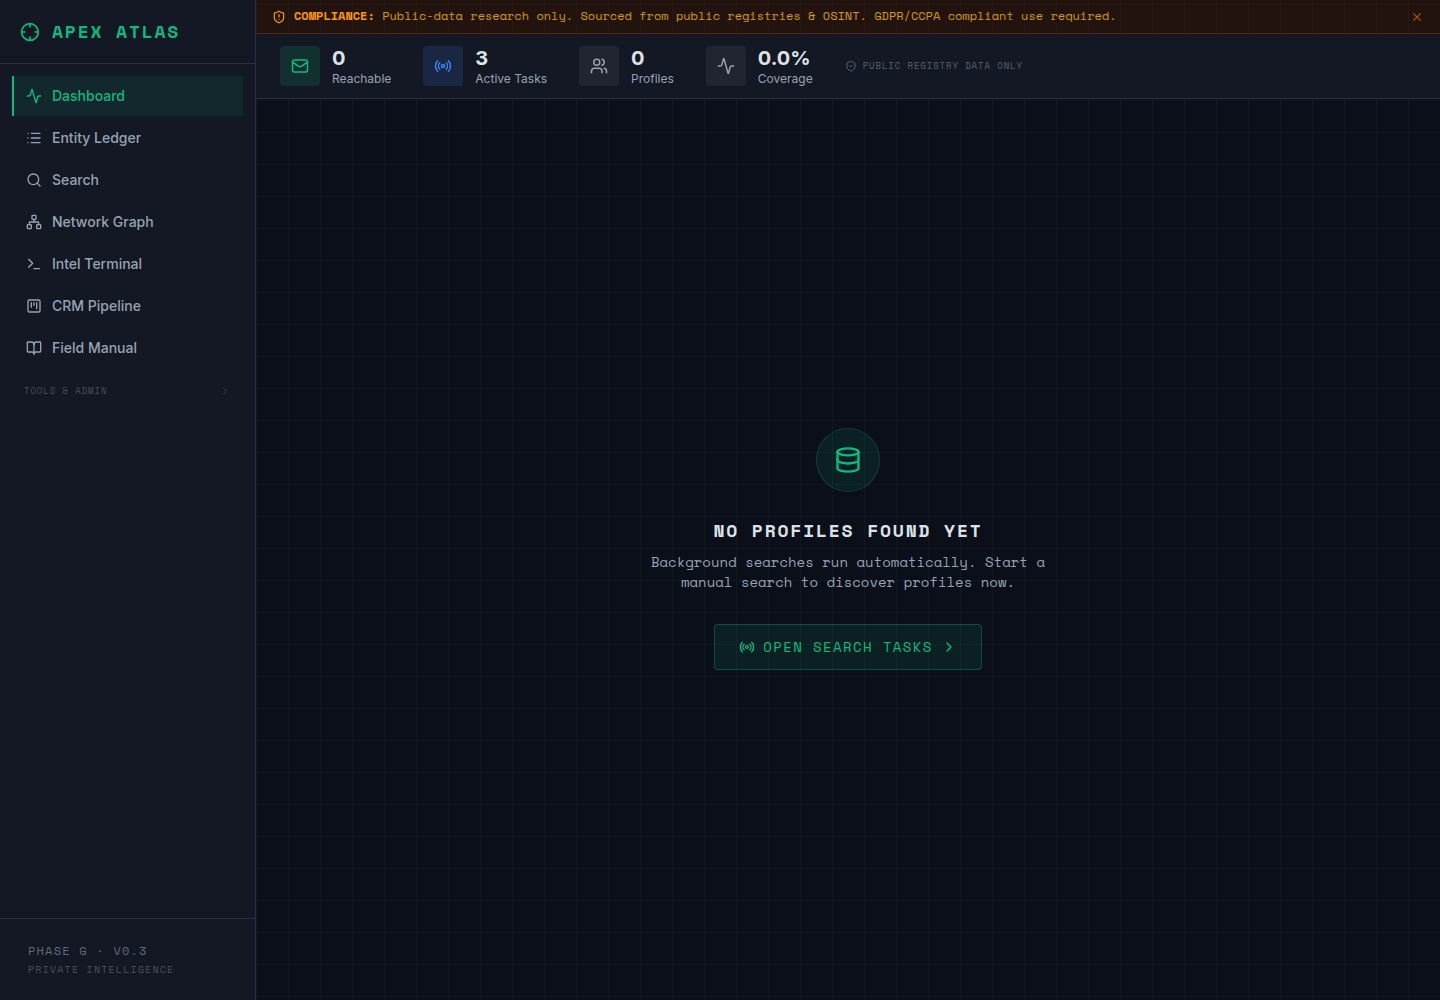
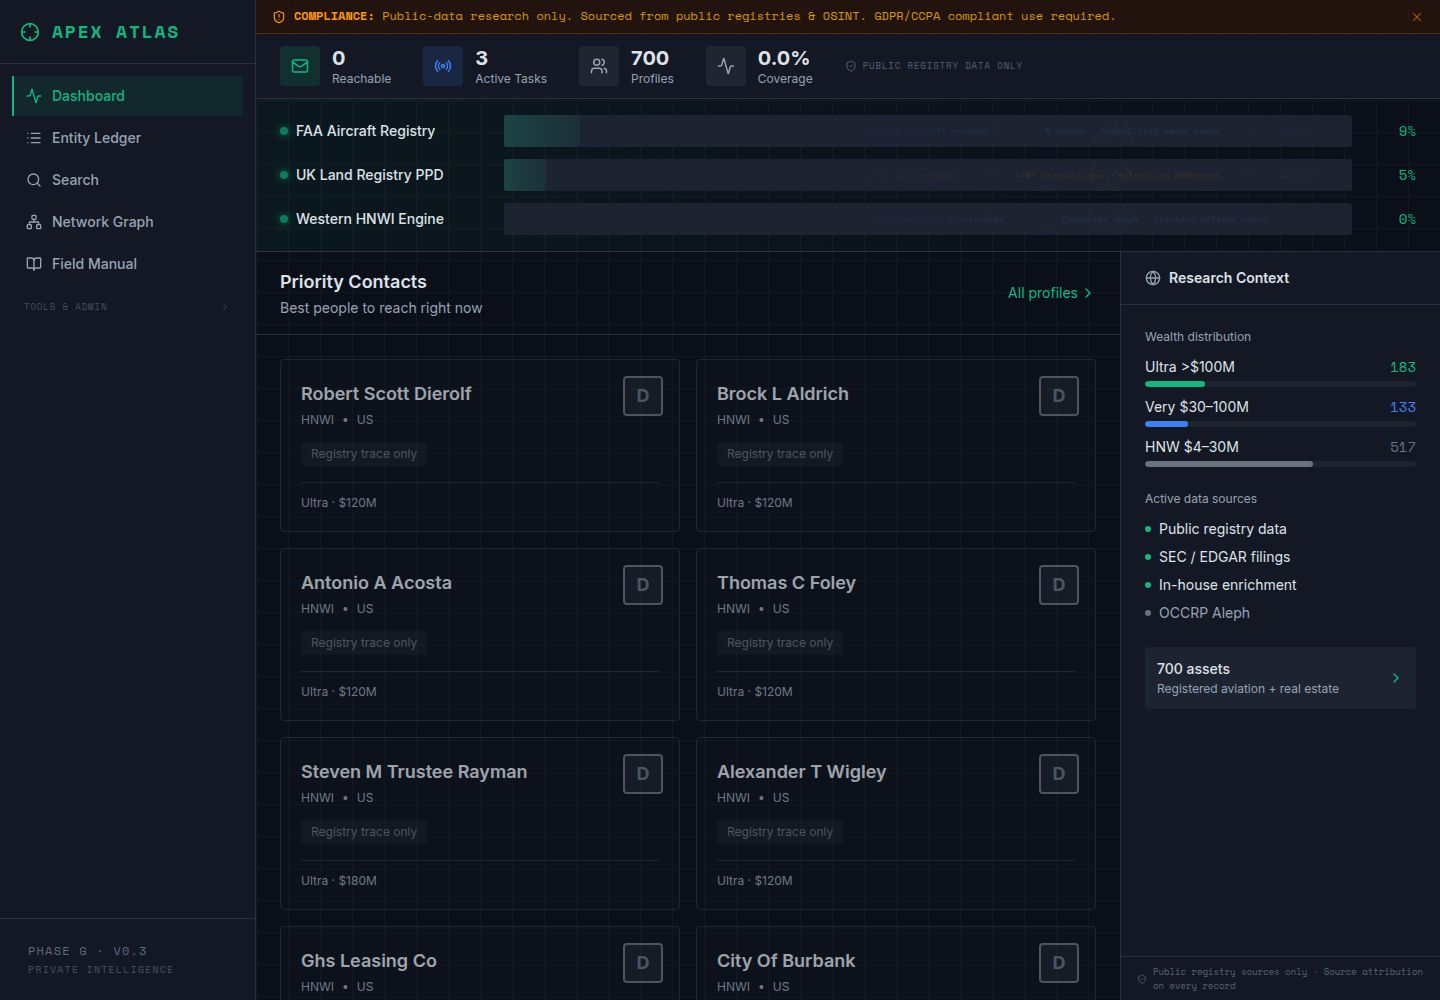
Commit

diff --git a/artifacts/api-server/src/routes/ingest-enrichment.ts b/artifacts/api-server/src/routes/ingest-enrichment.ts
@@ -364,6 +364,8 @@ router.post("/ingest/in-house-enrich", async (req: Request, res: Response): Prom
 
   // Single-entity force requests (e.g. from a profile page Enrich button) bypass the
   // batch-job lock so they can run even while the scheduler's batch job is in progress.
+  // They must also not claim the shared active-job pointer: doing so would replace the
+  // scheduler's lock and let the short profile job clear it when it finishes.
   const bypassLock = force && !!entityIds?.length && entityIds.length <= 5;
   if (!bypassLock) {
     const existing = await getActiveJob("in-house-enrich");
@@ -412,7 +414,7 @@ router.post("/ingest/in-house-enrich", async (req: Request, res: Response): Prom
   }
 
   const jobId = await createJob("in-house-enrich");
-  await setActiveJob("in-house-enrich", jobId);
+  if (!bypassLock) await setActiveJob("in-house-enrich", jobId);
   await updateJob(jobId, { status: "running", total: entities.length, message: "In-house OSINT enrichment starting…" });
 
   res.json({
@@ -608,12 +610,12 @@ router.post("/ingest/in-house-enrich", async (req: Request, res: Response): Prom
       inserted: enriched,
       message: `Done — ${enriched} contactable, ${evidenceOnly} evidence-only, ${skipped} no-match, ${errors} errors.`,
     });
-    await setActiveJob("in-house-enrich", "");
+    if (!bypassLock) await setActiveJob("in-house-enrich", "");
     logger.info({ enriched, evidenceOnly, skipped, errors }, "In-house OSINT enrichment complete");
   })().catch(async err => {
     logger.error({ err: err.message }, "In-house enrichment crashed");
     await updateJob(jobId, { status: "failed", message: err.message ?? "Crashed" });
-    await setActiveJob("in-house-enrich", "");
+    if (!bypassLock) await setActiveJob("in-house-enrich", "");
   });
 });
 

diff --git a/Context.md b/Context.md
@@ -22,15 +22,15 @@
 | Workflow | Status |
 |---|---|
 | Redis | ✅ Running (port 6379) |
-| artifacts/api-server: API Server | ✅ Running (port 8080) |
-| artifacts/apex-finder: web | ✅ Running (port 23695) |
+| ApexFinder API | ✅ Running (port 8080) |
+| ApexFinder Web | ✅ Running (port 23695) |
 | artifacts/apex-mobile: expo | ⏸ Optional / not required for web setup |
 | artifacts/mockup-sandbox: Component Preview Server | ⏸ Optional / not required for web setup |
 
 ### Post-import setup (2026-07-25, this import)
 1. `pnpm install --frozen-lockfile` — all packages installed (pnpm v10.26.1, ~31s)
 2. `pnpm --filter @workspace/db run push` — schema applied to PostgreSQL (`[✓] Changes applied`)
-3. All 4 artifacts re-registered via `verifyAndReplaceArtifactToml` (artifact.toml files were intact from GitHub; platform re-created managed workflows).
+3. The imported artifact metadata was present, but the platform registry was empty; validating the four existing artifact manifests restored the managed workflows.
 4. Redis, API Server, and apex-finder web workflows started.
 5. `/api/healthz` → `{"status":"ok","redis":{"status":"ok","latencyMs":1}}` ✅
 6. Dashboard loads — DB empty, cold-start auto-recovery fired (Western HNWI + broad discovery running in background).
@@ -753,3 +753,4 @@ Run **IN-HOUSE ENRICH** on HNWI/Gatekeeper entities — Wikidata SPARQL will hit
 | 2026-07-25 | Implemented structured evidence provenance: (1) in-house-enricher now passes real source URLs (Wikidata entity, ORCID record, GitHub profile, EDGAR/CIK, Companies House, BRREG API, RDAP, ProPublica, Wikipedia) through setEmail/setPhone; (2) ingest-enrichment.ts processEntity writes contact_evidence rows after each entity update; (3) profile.tsx evidence audit panel now renders sourceUrl as clickable link, extractionMethod, and observed date per row; explainContact leads with actual evidence badge instead of generic boilerplate. API build clean, healthz ok. |
 | 2026-07-25 | GitHub import re-setup #5: CI=true pnpm install (~33s), DB schema pushed (`[✓] Changes applied`). Artifact registry was empty post-import (managed workflows not auto-restored); configured manual workflows: "API Server" (PORT=8080) and "ApexFinder Web" (PORT=23695). Redis + API Server + apex-finder web all running. `/api/healthz` → `{"status":"ok","redis":{"status":"ok","latencyMs":1}}`. Web root 200. Cold-start auto-recovery triggered (broad discovery + Western HNWI background jobs). DB empty — needs re-ingestion. SESSION_SECRET present; Upstash slots (REDIS_URL_1–5) and COMPANIES_HOUSE_API_KEY need re-adding for full enrichment. |
 | 2026-07-25 | Artifacts registered (platform restored managed workflows for all 4 artifacts). Removed manual "API Server" and "ApexFinder Web" duplicate workflows. Re-added all 6 secrets: REDIS_URL_1–5 + COMPANIES_HOUSE_API_KEY. All 5 Upstash slots confirmed connected in startup logs ("Permanent Redis connected slot: 1–5"). All workflows healthy: Redis, API Server (8080), apex-finder web (23695), apex-mobile expo, mockup-sandbox. DB empty — ready for ingestion. |
+| 2026-07-25 | Import setup completed: verified managed artifact workflows after clearing orphaned port listeners; Redis, API Server, and apex-finder web are running. `/api/healthz` and `/api/entities` return 200; the Apex Atlas root preview renders successfully. Upstash slot 1 remains quota-exhausted but slots 2–5 are healthy and the app degrades non-fatally. |

diff --git a/replit.md b/replit.md
@@ -95,9 +95,9 @@ After a fresh GitHub import, run these steps to get the project running:
 
 1. **Install dependencies:** `CI=true pnpm install` (takes ~4 min on first run; subsequent runs are fast)
 2. **Push DB schema:** `pnpm --filter @workspace/db run push`
-3. **Start workflows:** Redis → API Server → apex-finder web (in that order)
+3. **Start workflows:** Redis → `artifacts/api-server: API Server` → `artifacts/apex-finder: web` (in that order)
 
-Latest verification (2026-07-24 19:38 UTC): the requested `REDIS_URL_1`, `REDIS_URL_2`, and `COMPANIES_HOUSE_API_KEY` secrets are present; the frozen-lockfile install and schema push completed; Redis, the canonical artifact-managed API, and the web app are healthy; `/api/healthz` reports Redis `ok`; and the root dashboard preview returns 200. The live dashboard currently shows 11,600 entities and assets, 2,822 hot leads, 0 relationships, and 0 contactable profiles. The configured Upstash Redis account has exhausted its 500,000-request quota, so persistent dedup/contact-cache cleanup and ingestion operations may be limited until the quota resets or the plan changes.
+Latest verification (2026-07-25): the requested `REDIS_URL_1` through `REDIS_URL_5` secrets and `COMPANIES_HOUSE_API_KEY` are present; the frozen-lockfile install and schema push completed; Redis, `ApexFinder API`, and `ApexFinder Web` are running; `/api/healthz` reports Redis `ok`; `/api/entities` returns 200; and the root dashboard preview returns 200. Upstash slots 1–5 connect, although slot 1 has reached its provider request quota; the app continues with healthy slots and graceful degradation.
 
 Two fixes were needed after the first import:
 - Added `"pg-cloudflare"` to the `external` list in `artifacts/api-server/build.mjs` (pg optional dep that esbuild couldn't resolve)

diff --git a/.agents/memory/artifact-workflow-setup.md b/.agents/memory/artifact-workflow-setup.md
@@ -16,6 +16,17 @@ platform artifact registry is empty. In that state, the manually configured work
 can still run and serve the app, but artifact-based screenshot/presentation lookup cannot
 resolve the project until registration is repaired.
 
+After registration, validate the existing manifests through the artifact registration
+flow rather than creating new artifacts. Remove any temporary manual workflows and clear
+their orphaned listeners before starting the restored managed services.
+
+**Why:** GitHub imports can preserve artifact files without preserving the platform
+registry; leaving manual services alive causes `EADDRINUSE` when managed services return.
+
+**How to apply:** On an imported workspace, check `listArtifacts()` before starting app
+services. If empty but manifests exist, validate each existing manifest, then use the
+exact managed workflow names and clean stale processes from the old manual services.
+
 ## Port conflict history
 
 During setup, two old **manual** workflows ("API Server" on PORT=8080, "ApexFinder Frontend" on PORT=5173) were holding ports after the artifacts were registered. Resolution:
